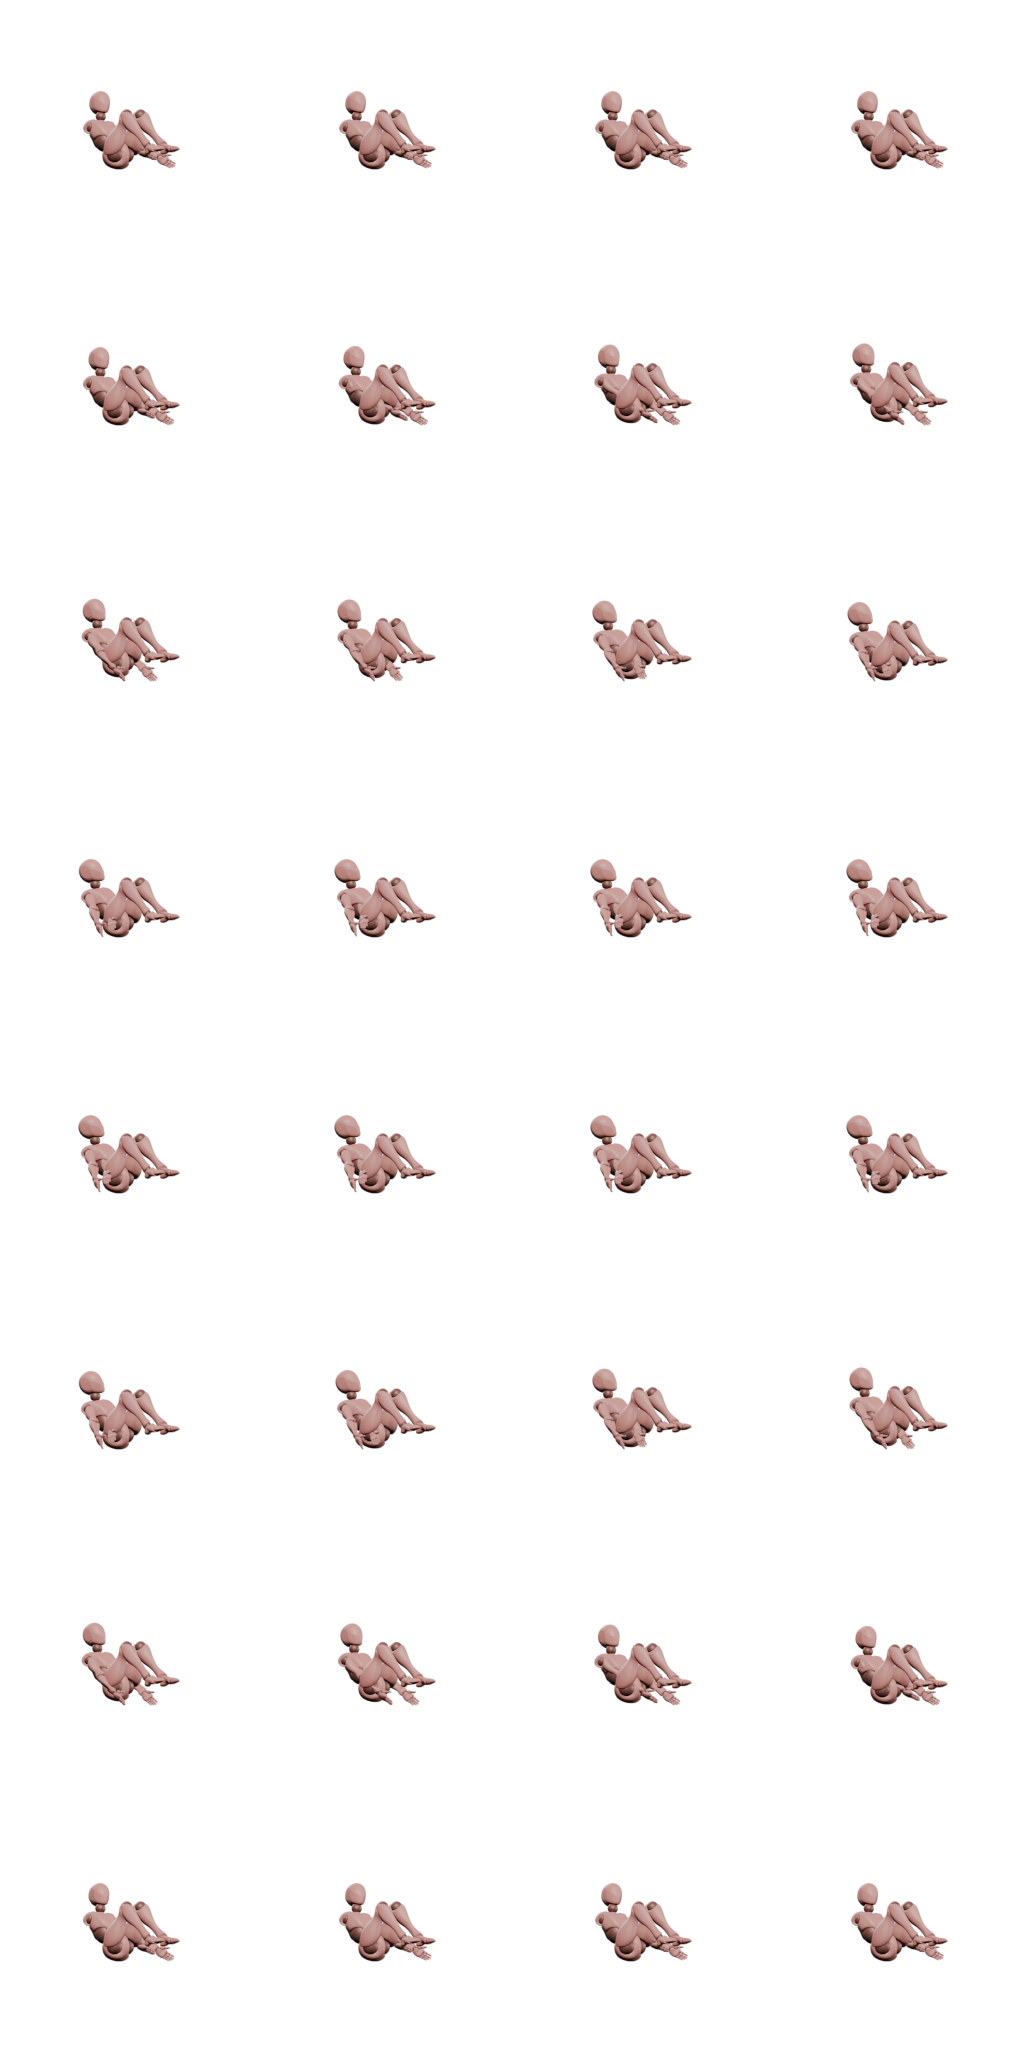
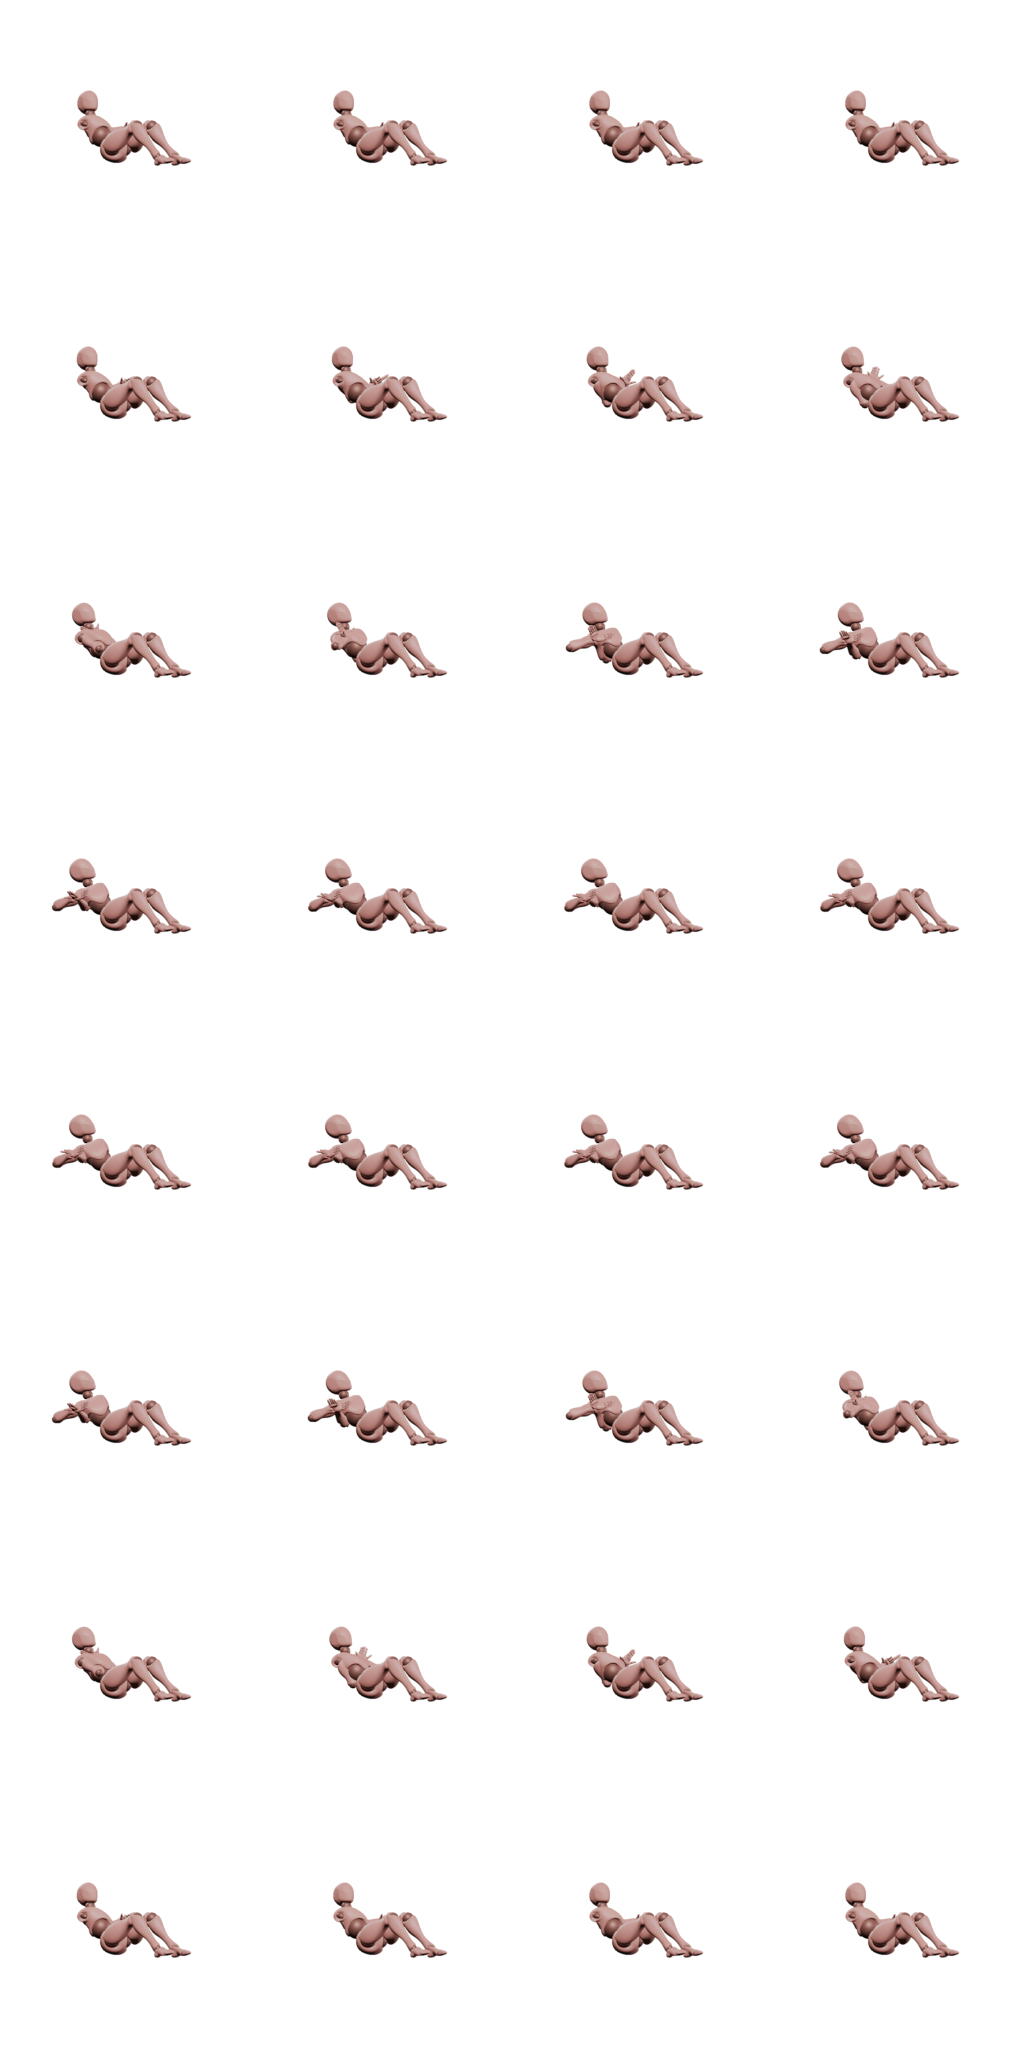
Trois corrections, dont deux mesures qui mentaient
## Superman : la position à plat ne l'était pas

Le relevé donnait les bras à vingt-cinq degrés sous l'horizontale. L'épaule
d'un corps à plat ventre étant à dix-huit centimètres du sol, une pente
pareille envoie la main trente et un centimètres plus bas — sous le
plancher. L'ancrage, qui pose le point le plus bas du maillage à zéro,
soulevait alors le corps entier de la différence : le ventre décollait et la
« position à plat » flottait.

Onze degrés suffisent à amener la main au sol depuis l'épaule. Le point le
plus bas redevient le ventre, et l'audit passe de rien à zéro centimètre.

## Rowing inversé : un pôle parallèle à la chaîne

Le coude sortait de vingt-six centimètres sur le côté au lieu de rentrer
sous le corps. Le pôle était écrit (0, -0,30, -0,95) — c'est-à-dire presque
parallèle à l'axe épaule-poignet, lui-même vertical puisqu'on tire vers une
barre au-dessus de soi. Un pôle parallèle à la chaîne ne dit plus de quel
côté plier : la direction devient dégénérée et le coude part où il peut.

Il faut qu'il soit **perpendiculaire** : (0, -0,95, -0,30), vers les pieds.
Le coude rentre alors vers les hanches, ce qu'un tirage fait vraiment.

De trois-quarts aussi : de profil les deux bras se superposent exactement et
le pliage du coude, qui est tout le geste, disparaît derrière le corps.

## Russian twist : une moyenne d'angles n'est pas une mesure

Le premier jet donnait une boule, genoux à la poitrine. La cuisse avait été
[…]

diff --git a/scripts/gestes_generes.py b/scripts/gestes_generes.py
@@ -397,6 +397,30 @@ JAMBE_REPLIEE = {
 #: Les deux pieds passent **à côté** du banc et non dessous, le droit du côté
 #: de la caméra. De profil, une jambe qui disparaît derrière le meuble ne
 #: démontre rien.
+#: Assis en arrière, genoux fléchis, talons décollés : le socle du russian
+#: twist, commun à ses trois poses. Seuls les bras et le haut du buste changent
+#: d'une clé à l'autre, et les répéter trois fois invitait à les corriger deux
+#: fois sur trois.
+#:
+#: Le tronc bascule de cinquante degrés, la cuisse ne monte que de vingt-deux,
+#: le tibia redescend de vingt-cinq. Le compte tombe alors juste : bassin à
+#: 14 cm, genou à 30, cheville à 12 — talon décollé de quelques centimètres,
+#: ce que montre la vidéo.
+ASSIS_EN_ARRIERE = {
+    _os("Spine"): (+0.00, +0.64, +0.77),
+    _os("Spine1"): (+0.00, +0.64, +0.77),
+    _os("Spine2"): (+0.00, +0.64, +0.77),
+    _os("Neck"): (+0.00, +0.68, +0.73),
+    _os("Head"): (+0.00, +0.72, +0.69),
+    _os("LeftUpLeg"): (+0.06, -0.87, +0.50),
+    _os("RightUpLeg"): (-0.06, -0.87, +0.50),
+    _os("LeftLeg"): (+0.04, -0.72, -0.69),
+    _os("RightLeg"): (-0.04, -0.72, -0.69),
+    _os("LeftFoot"): (+0.00, -0.87, -0.50),
+    _os("RightFoot"): (+0.00, -0.87, -0.50),
+}
+
+
 SUR_LE_BANC = {
     _os("LeftUpLeg"): Appui((+0.24, -0.34, 0.087), (0, -0.55, +0.84)),
     _os("RightUpLeg"): Appui((-0.26, -0.34, 0.087), (0, -0.55, +0.84)),
@@ -981,12 +1005,25 @@ GESTES = {
                 _os("Spine"): (+0.00, +1.00, +0.00),
                 _os("Spine1"): (+0.00, +1.00, +0.00),
                 _os("Spine2"): (+0.00, +1.00, +0.00),
-                _os("Neck"): (+0.00, +0.96, -0.27),
-                _os("Head"): (+0.00, +0.96, -0.27),
-                _os("LeftArm"): (+0.00, +0.91, -0.42),
-                _os("RightArm"): (+0.00, +0.91, -0.42),
-                _os("LeftForeArm"): (+0.00, +0.97, -0.23),
-                _os("RightForeArm"): (+0.00, +0.97, -0.23),
+                _os("Neck"): (+0.00, +0.98, -0.20),
+                _os("Head"): (+0.00, +0.98, -0.20),
+                # Bras **presque horizontaux**, et c'est toute la correction de
+                # cette pose.
+                #
+                # Le relevé les donnait à vingt-cinq degrés sous l'horizontale.
+                # L'épaule d'un corps à plat ventre étant à dix-huit
+                # centimètres, une pente pareille envoie la main trente et un
+                # centimètres plus bas — sous le plancher. L'ancrage, qui pose
+                # le point le plus bas du maillage à zéro, soulevait alors le
+                # corps entier de la différence : la « position à plat »
+                # flottait, ventre décollé, et c'est ce qui se voyait.
+                #
+                # Onze degrés suffisent à amener la main au sol depuis
+                # l'épaule, et le point le plus bas redevient le ventre.
+                _os("LeftArm"): (+0.00, +0.980, -0.199),
+                _os("RightArm"): (+0.00, +0.980, -0.199),
+                _os("LeftForeArm"): (+0.00, +0.990, -0.141),
+                _os("RightForeArm"): (+0.00, +0.990, -0.141),
                 # La main prolonge l'avant-bras. Le relevé la renvoyait
                 # relevée de quinze degrés vers le plafond pendant que
                 # l'avant-bras plongeait : l'estimateur n'a pas de poignet
@@ -994,16 +1031,16 @@ GESTES = {
                 # au poignet.
                 _os("LeftHand"): SUIVRE,
                 _os("RightHand"): SUIVRE,
-                _os("LeftUpLeg"): (+0.00, -0.99, -0.11),
-                _os("RightUpLeg"): (+0.00, -0.99, -0.11),
-                _os("LeftLeg"): (+0.00, -0.99, -0.11),
-                _os("RightLeg"): (+0.00, -0.99, -0.11),
+                _os("LeftUpLeg"): (+0.00, -0.995, -0.10),
+                _os("RightUpLeg"): (+0.00, -0.995, -0.10),
+                _os("LeftLeg"): (+0.00, -0.995, -0.10),
+                _os("RightLeg"): (+0.00, -0.995, -0.10),
                 # Pieds posés, cou-de-pied au sol : le pied prolonge la jambe
                 # en plongeant à peine. Le relevé le donnait à soixante degrés
                 # sous l'horizontale, ce qui plantait les orteils dans le
                 # plancher — l'estimateur voit mal un pied de profil au sol.
-                _os("LeftFoot"): (+0.00, -0.93, -0.37),
-                _os("RightFoot"): (+0.00, -0.93, -0.37),
+                _os("LeftFoot"): (+0.00, -0.95, -0.31),
+                _os("RightFoot"): (+0.00, -0.95, -0.31),
             }),
             # Décollé. Bras et jambes montent ensemble, poitrine dégagée.
             _pose({
@@ -1106,30 +1143,37 @@ GESTES = {
         ],
     },
 
-    # Russian twist, relevé sur deux vidéos de démonstration — à vide et lesté.
-    # Trois temps : mains à gauche, au centre, à droite.
+    # Russian twist. Assis en arrière, genoux fléchis, talons décollés, les
+    # mains jointes passent d'une hanche à l'autre.
     #
-    # Les deux vidéos donnent la même posture à quelques degrés près, ce qui
-    # vaut mieux qu'une seule : tronc à 63,4° et 68,3° de l'horizontale sur 243
-    # et 490 images, cuisse à 63,8° et 64,1°, tibia à -42,4° et -46,2°. On
-    # retient 65°, 64° et -44°.
+    # ## Une posture reprise sur les images, et pourquoi
     #
-    # De **trois-quarts** : la rotation se fait dans la largeur et disparaît de
-    # profil, mais l'inclinaison du buste — qui est l'autre moitié de
-    # l'exercice — disparaît de face. C'est le même raisonnement que pour les
-    # alternances de cardio.
+    # Un premier jet l'avait tirée des angles moyens du relevé : tronc à 65°
+    # de l'horizontale, cuisse à 64°. Le rendu donnait une boule — genoux
+    # remontés à la poitrine, corps replié sur lui-même —, et il a fallu
+    # regarder les images de la vidéo pour comprendre.
+    #
+    # L'angle de la cuisse était faux d'une quarantaine de degrés. Il se
+    # calculait en `arctan2(dy, |dx|)` sur le segment hanche→genou, et cette
+    # formule enfle dès que `dx` est petit : sur une vue de profil où le genou
+    # est presque à l'aplomb de la hanche, un bruit de deux pixels en x fait
+    # passer l'angle de trente à soixante degrés. Une moyenne d'angles n'est pas
+    # une mesure quand le dénominateur s'approche de zéro.
+    #
+    # Ce que montrent les images : le tronc bascule d'une cinquantaine de
+    # degrés, la cuisse ne monte que d'une vingtaine, le genou est fléchi
+    # largement et le talon flotte à quelques centimètres du tapis.
     "russian-twist": {
         "vue": "trois-quarts",
         # Mille sept cent cinquante millisecondes pour un aller-retour complet.
         # Relevé sur le va-et-vient du poignet : 1877 ms à vide, 1609 ms lesté.
         "duree": 1750,
-        # Assis en arrière, et c'est l'assise du dos qui sert : le bassin est
-        # basculé en arrière, on est posé sur le sacrum. Le buste se redresse
-        # ensuite en visant `Spine` à soixante-cinq degrés — ce que le moteur
-        # sait faire, contrairement à ce qui était noté.
         "assise": SUR_LE_DOS,
-        # Gauche et droite ne font pas la même chose : le bras qui traverse va
-        # chercher plus loin que celui qui accompagne.
+        # Assis sur les fesses : le bassin ne touche le sol que par elles, et
+        # sa hauteur ne se déduit d'aucun appui. On la déclare, comme pour un
+        # développé couché.
+        "ancrage": False,
+        "hauteur": 0.192,
         "symetrique": False,
         # Un temps de chaque côté, rien au centre — on y passe, on ne s'y
         # arrête pas.
@@ -1137,69 +1181,49 @@ GESTES = {
         "cles": [
             # Mains à **gauche** du personnage. Debout comme couché sur le dos,
             # sa gauche est en +X.
-            _pose({
-                _os("Spine"): (+0.00, +0.42, +0.91),
-                _os("Spine1"): (+0.00, +0.42, +0.91),
-                # Le haut du buste se tourne du côté où vont les mains : c'est
-                # la rotation qui fait l'exercice, et sans elle on ne verrait
-                # que des bras qui balaient devant un tronc immobile.
-                _os("Spine2"): (+0.22, +0.38, +0.90),
-                _os("Neck"): (+0.15, +0.45, +0.88),
-                _os("Head"): (+0.30, +0.50, +0.81),
-                # Les deux mains se rejoignent : le bras opposé traverse
-                # davantage que celui du côté visé.
-                _os("LeftArm"): (+0.45, -0.72, -0.53),
-                _os("RightArm"): (+0.68, -0.62, -0.39),
-                _os("LeftForeArm"): (+0.52, -0.70, -0.49),
-                _os("RightForeArm"): (+0.60, -0.66, -0.45),
+            _pose(ASSIS_EN_ARRIERE, {
+                _os("Spine1"): APlat((+0.00, +0.64, +0.77),
+                                     paume=(+0.64, -0.59, +0.49)),
+                _os("Spine2"): APlat((+0.10, +0.63, +0.77),
+                                     paume=(+0.64, -0.59, +0.49)),
+                _os("Neck"): (+0.15, +0.62, +0.77),
+                _os("Head"): (+0.30, +0.65, +0.70),
+                # Les mains sont **jointes** : c'est un point qu'on connaît, pas
+                # deux directions. Un appui par bras sur la même cible les tient
+                # ensemble d'un bout à l'autre du balancement, ce que deux
+                # directions ne garantissent jamais.
+                _os("LeftArm"): Appui((+0.38, 0.18, 0.36), (+1, 0, -0.3)),
+                _os("RightArm"): Appui((+0.38, 0.18, 0.36), (+1, 0, -0.3)),
                 _os("LeftHand"): SUIVRE,
                 _os("RightHand"): SUIVRE,
-                _os("LeftUpLeg"): (+0.04, -0.44, +0.90),
-                _os("RightUpLeg"): (-0.04, -0.44, +0.90),
-                _os("LeftLeg"): (+0.03, -0.72, -0.69),
-                _os("RightLeg"): (-0.03, -0.72, -0.69),
-                _os("LeftFoot"): (+0.00, -0.90, -0.44),
-                _os("RightFoot"): (+0.00, -0.90, -0.44),
             }),
-            # Au centre : mains devant le sternum, buste dans l'axe.
-            _pose({
-                _os("Spine"): (+0.00, +0.42, +0.91),
-                _os("Spine1"): (+0.00, +0.42, +0.91),
-                _os("Spine2"): (+0.00, +0.42, +0.91),
-                _os("Neck"): (+0.00, +0.50, +0.87),
-                _os("Head"): (+0.00, +0.55, +0.84),
-                _os("LeftArm"): (+0.12, -0.78, -0.61),
-                _os("RightArm"): (-0.12, -0.78, -0.61),
-                _os("LeftForeArm"): (+0.08, -0.80, -0.59),
-                _os("RightForeArm"): (-0.08, -0.80, -0.59),
+            # Au centre, mains devant le sternum et buste dans l'axe.
+            _pose(ASSIS_EN_ARRIERE, {
+                # `APlat` aussi, et il le faut : le moteur refuse qu'un os soit
+                # posé à plat sur une pose et libre sur une autre. C'est une
+                # bonne exigence — un roulis déclaré une fois sur deux ne veut
+                # rien dire.
+                _os("Spine1"): APlat((+0.00, +0.64, +0.77),
+                                     paume=(+0.00, -0.77, +0.64)),
+                _os("Spine2"): APlat((+0.00, +0.64, +0.77),
+                                     paume=(+0.00, -0.77, +0.64)),
+                _os("LeftArm"): Appui((+0.00, 0.22, 0.42), (+1, 0, -0.3)),
+                _os("RightArm"): Appui((+0.00, 0.22, 0.42), (-1, 0, -0.3)),
                 _os("LeftHand"): SUIVRE,
                 _os("RightHand"): SUIVRE,
-                _os("LeftUpLeg"): (+0.04, -0.44, +0.90),
-                _os("RightUpLeg"): (-0.04, -0.44, +0.90),
-                _os("LeftLeg"): (+0.03, -0.72, -0.69),
-                _os("RightLeg"): (-0.03, -0.72, -0.69),
-                _os("LeftFoot"): (+0.00, -0.90, -0.44),
-                _os("RightFoot"): (+0.00, -0.90, -0.44),
             }),
-            # Mains à **droite**, exact miroir de la première clé.
-            _pose({
-                _os("Spine"): (+0.00, +0.42, +0.91),
-                _os("Spine1"): (+0.00, +0.42, +0.91),
-                _os("Spine2"): (-0.22, +0.38, +0.90),
-                _os("Neck"): (-0.15, +0.45, +0.88),
-                _os("Head"): (-0.30, +0.50, +0.81),
-                _os("LeftArm"): (-0.68, -0.62, -0.39),
-                _os("RightArm"): (-0.45, -0.72, -0.53),
-                _os("LeftForeArm"): (-0.60, -0.66, -0.45),
-                _os("RightForeArm"): (-0.52, -0.70, -0.49),
+            # Mains à **droite**, miroir de la première clé.
+            _pose(ASSIS_EN_ARRIERE, {
+                _os("Spine1"): APlat((+0.00, +0.64, +0.77),
+                                     paume=(-0.64, -0.59, +0.49)),
+                _os("Spine2"): APlat((-0.10, +0.63, +0.77),
+                                     paume=(-0.64, -0.59, +0.49)),
+                _os("Neck"): (-0.15, +0.62, +0.77),
+                _os("Head"): (-0.30, +0.65, +0.70),
+                _os("LeftArm"): Appui((-0.38, 0.18, 0.36), (-1, 0, -0.3)),
+                _os("RightArm"): Appui((-0.38, 0.18, 0.36), (-1, 0, -0.3)),
                 _os("LeftHand"): SUIVRE,
                 _os("RightHand"): SUIVRE,
-                _os("LeftUpLeg"): (+0.04, -0.44, +0.90),
-                _os("RightUpLeg"): (-0.04, -0.44, +0.90),
-                _os("LeftLeg"): (+0.03, -0.72, -0.69),
-                _os("RightLeg"): (-0.03, -0.72, -0.69),
-                _os("LeftFoot"): (+0.00, -0.90, -0.44),
-                _os("RightFoot"): (+0.00, -0.90, -0.44),
             }),
         ],
     },
@@ -1222,8 +1246,11 @@ GESTES = {
     # Poitrine à la barre, l'épaule arrive à 0,75 m, le bassin à 0,55, et
     # l'inclinaison passe à vingt-huit degrés. Les vingt-quatre centimètres
     # entre les deux sont ce que `bassin` déclare.
+    # De **trois-quarts** et non de profil : de profil, les deux bras se
+    # superposent exactement et le pliage du coude — qui est tout le geste —
+    # disparaît derrière le corps.
     "rowing-inverse": {
-        "vue": "profil",
+        "vue": "trois-quarts",
         "duree": 2400,
         "assise": SUR_LE_DOS,
         # La barre : (y, z) dans le monde. La même paire sert aux appuis des
@@ -1237,7 +1264,7 @@ GESTES = {
         # imposée par la barre : c'est un cas d'école pour `hauteur` et
         # `bassin`, comme le développé couché.
         "ancrage": False,
-        "hauteur": 0.306,
+        "hauteur": 0.263,
         "bassin": [(0, 0, 0.0), (0, 0, 0.24)],
         # On tire vite et l'on redescend en retenant ; faute de pouvoir dire
         # une descente plus lente que la montée, on marque le haut.
@@ -1253,8 +1280,8 @@ GESTES = {
                 # Les mains **tiennent** la barre : on connaît le point, pas
                 # l'angle. C'est ce qu'un appui exprime, et c'est ce qui
                 # garantit qu'elles n'en décollent pas d'une image à l'autre.
-                _os("LeftArm"): Appui((+0.25, 0.42, 0.95), (0, -0.30, -0.95)),
-                _os("RightArm"): Appui((-0.25, 0.42, 0.95), (0, -0.30, -0.95)),
+                _os("LeftArm"): Appui((+0.25, 0.42, 0.95), (0, -0.95, -0.30)),
+                _os("RightArm"): Appui((-0.25, 0.42, 0.95), (0, -0.95, -0.30)),
                 _os("LeftHand"): SUIVRE,
                 _os("RightHand"): SUIVRE,
                 _os("LeftUpLeg"): (+0.03, -0.974, -0.225),
@@ -1273,8 +1300,8 @@ GESTES = {
                 _os("Spine2"): (+0.00, +0.883, +0.469),
                 _os("Neck"): (+0.00, +0.883, +0.469),
                 _os("Head"): (+0.00, +0.930, +0.367),
-                _os("LeftArm"): Appui((+0.25, 0.42, 0.95), (0, -0.30, -0.95)),
-                _os("RightArm"): Appui((-0.25, 0.42, 0.95), (0, -0.30, -0.95)),
+                _os("LeftArm"): Appui((+0.25, 0.42, 0.95), (0, -0.95, -0.30)),
+                _os("RightArm"): Appui((-0.25, 0.42, 0.95), (0, -0.95, -0.30)),
                 _os("LeftHand"): SUIVRE,
                 _os("RightHand"): SUIVRE,
                 _os("LeftUpLeg"): (+0.03, -0.879, -0.476),
